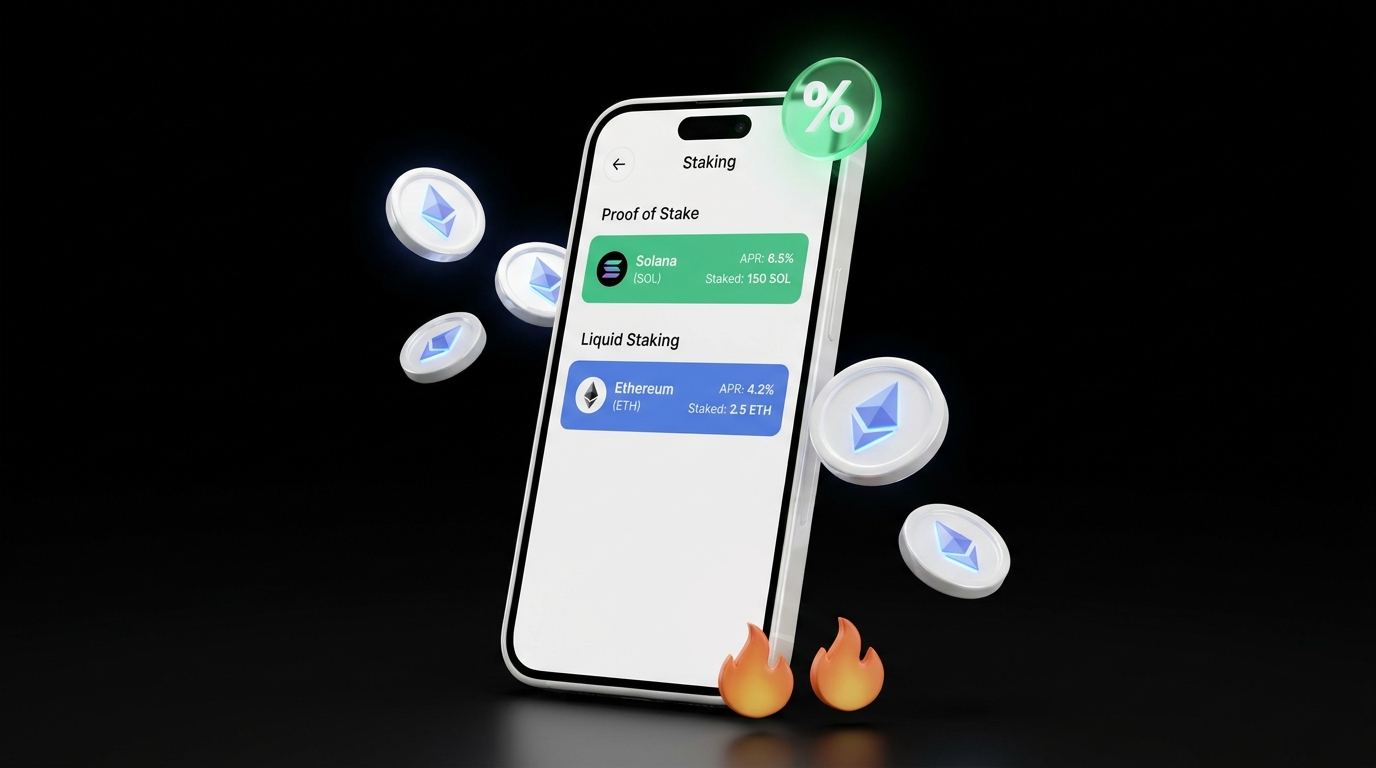
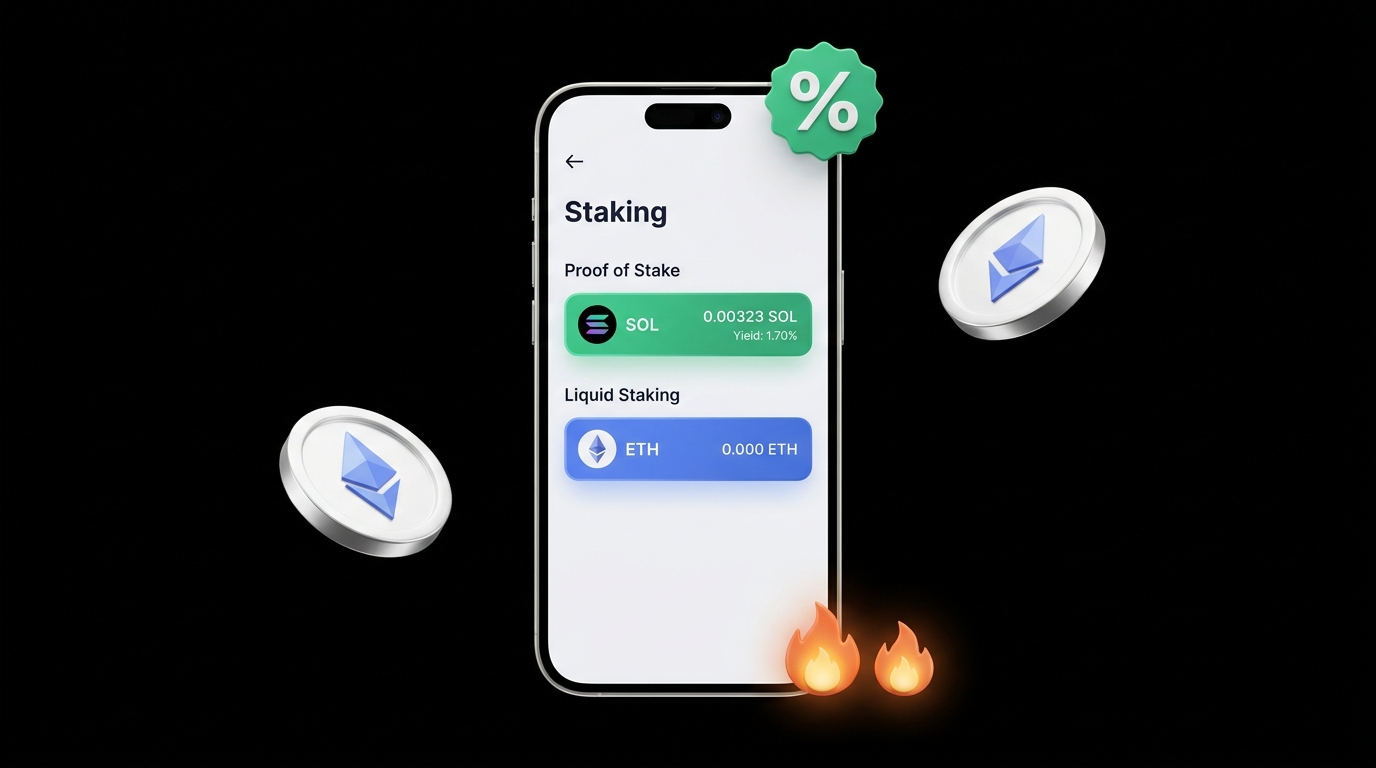
The 'Six years of advanced crypto solutions' section has been updated to closely match the reference. The left card displays two professionals at a laptop with 'Dedicated customer support,' and the right card shows the phone with the staking app featuring the Solana green row, Ethereum blue row, gre
I have tested this section by opening the Pro page in preview mode, and it appears to render correctly with both images aligned to the reference. Please open the preview and scroll to the section to confirm if it meets your expectations. If everything looks good, pressing 'Deploy' will finalize these changes.

Credentials and handoff remain unchanged.

Next Action Items:
- Work With Us Page: Create the Work with us page under About us like the Ecosystem one
- Grok Article Page: Make the "What is Grok" card open its own article page
- Popup Reword: Update the newsletter popup text to match the trading platform instead of the old recovery service

Emergent-Commit-Key: 0c1b9bb4c75b66d41c31463b4537c5f5435917f199d4b87b3f667ecb748ab9d0

diff --git a/frontend/src/pages/platform/Pro.tsx b/frontend/src/pages/platform/Pro.tsx
@@ -207,12 +207,12 @@ export default function Pro() {
               </div>
               <img className="pro-scard-img" src={supportMeeting} alt="Two professionals looking at a laptop in an office" loading="lazy" />
             </article>
-            <article className="pro-mcard pro-xcard" data-testid="pro-staking-card">
+            <article className="pro-mcard pro-xcard pro-staking-card" data-testid="pro-staking-card">
               <div className="pro-mcard-body">
-                <h3>{_t("Staking rewards & fee rebates")}</h3>
-                <p>{_t("Staking, APYs up to 16.7%, and reduced trading fees: with PUMP, the Blockscaner ecosystem token, you can access unique benefits. Learn more about the PUMP ecosystem and unlock exclusive advantages.")}</p>
+                <h3>{_t("Up to +5% tokens with")} <em>{_t("staking.")}</em></h3>
+                <p>{_t("Maximise your crypto portfolio's results with staking on top Proof-of-Stake cryptocurrencies: Ethereum, Celestia, Solana, and Cosmos. Ideal for growing your assets without active trading.")}</p>
               </div>
-              <img className="pro-scard-img" src={stakingPhone} alt="Phone showing staking app with +16.7% APR" loading="lazy" />
+              <img className="pro-scard-img" src={stakingPhone} alt="Phone showing staking app with Solana and Ethereum" loading="lazy" />
             </article>
           </div>
         </section>

diff --git a/frontend/src/index.css b/frontend/src/index.css
@@ -1282,8 +1282,9 @@ svg.pro-api-anim{ display:block; width:calc(100% + 3.6rem); height:16rem; margin
   line-height:1.12; margin:0; }
 .pro-solutions h2 em{ font-style:normal; color:#2ee58a; }
 .pro-solutions-grid{ display:grid; grid-template-columns:1fr 1fr; gap:1.4rem; margin-top:2.6rem; }
-.pro-xcard{ min-height:26rem; }
-.pro-xcard .pro-scard-img{ height:15rem; }
+.pro-xcard{ min-height:30rem; }
+.pro-xcard .pro-scard-img{ height:19rem; }
+.pro-staking-card h3 em{ font-style:normal; color:#2ee58a; }
 @media (max-width:860px){
   .pro-markets-grid{ grid-template-columns:1fr; }
   .pro-service-grid{ grid-template-columns:1fr; }
